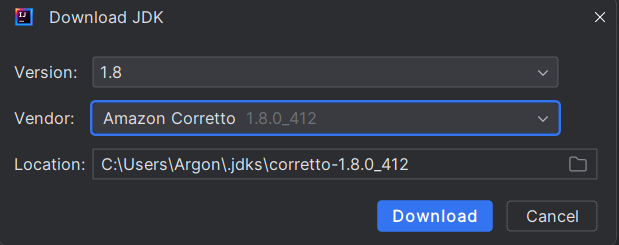
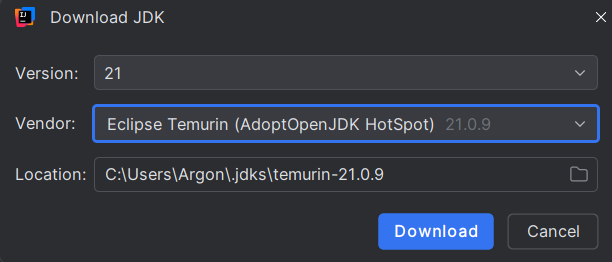
update docs for Java 21

diff --git a/README.md b/README.md
@@ -4,7 +4,7 @@ This project is intended for people who want to start modding for the game [Song
 It contains a random weather eclipse event, which changes the light color.
 The maven build pipeline will take care of compiling, packaging and installing the mod into the games mod folder.
 
-You will need a **Java 1.8 JDK** for developing.
+You will need a **Java 21 JDK** for developing.
 There are also some [tips for developing a mod](/doc/index.md).
 
 
@@ -84,7 +84,7 @@ mvn validate
 mvn package
 ```
 
-The source code of the mod will be copied into e.g. `target/out/songs-of-syx-mod-example/V63/script/_src`.
+The source code of the mod will be copied into e.g. `target/out/songs-of-syx-mod-example/V70/script/_src`.
 
 :information_source: Build and copy the output into the games mods folder (excluding `_src`):
 ```
@@ -176,7 +176,7 @@ See: [Setup IntelliJ IDEA](doc/howto/intellij_setup.md)
 
 ### What programming language is Songs of Syx written in?
 
-Songs of Syx is written in Java 1.8. 
+Songs of Syx was written primarily in Java 1.8, but it runs with Java 21. 
 It is shipped with its own Java Runtime Environment (JRE) found in the game installation directory under `jre/`.
 
 ### Which engine is Songs of Syx written in?

diff --git a/doc/howto/intellij_setup.md b/doc/howto/intellij_setup.md
@@ -18,7 +18,7 @@
    ![JDK Project Structure](../img/intellij-setup/jdk_project_structure.png)
 
 
-5) Choose `Version 1.8` and a Vendor of your choice and download it: 
+5) Choose `Version 21` and a Vendor of your choice and download it: 
 
    ![JDK Download](../img/intellij-setup/jdk_download.png)
 
